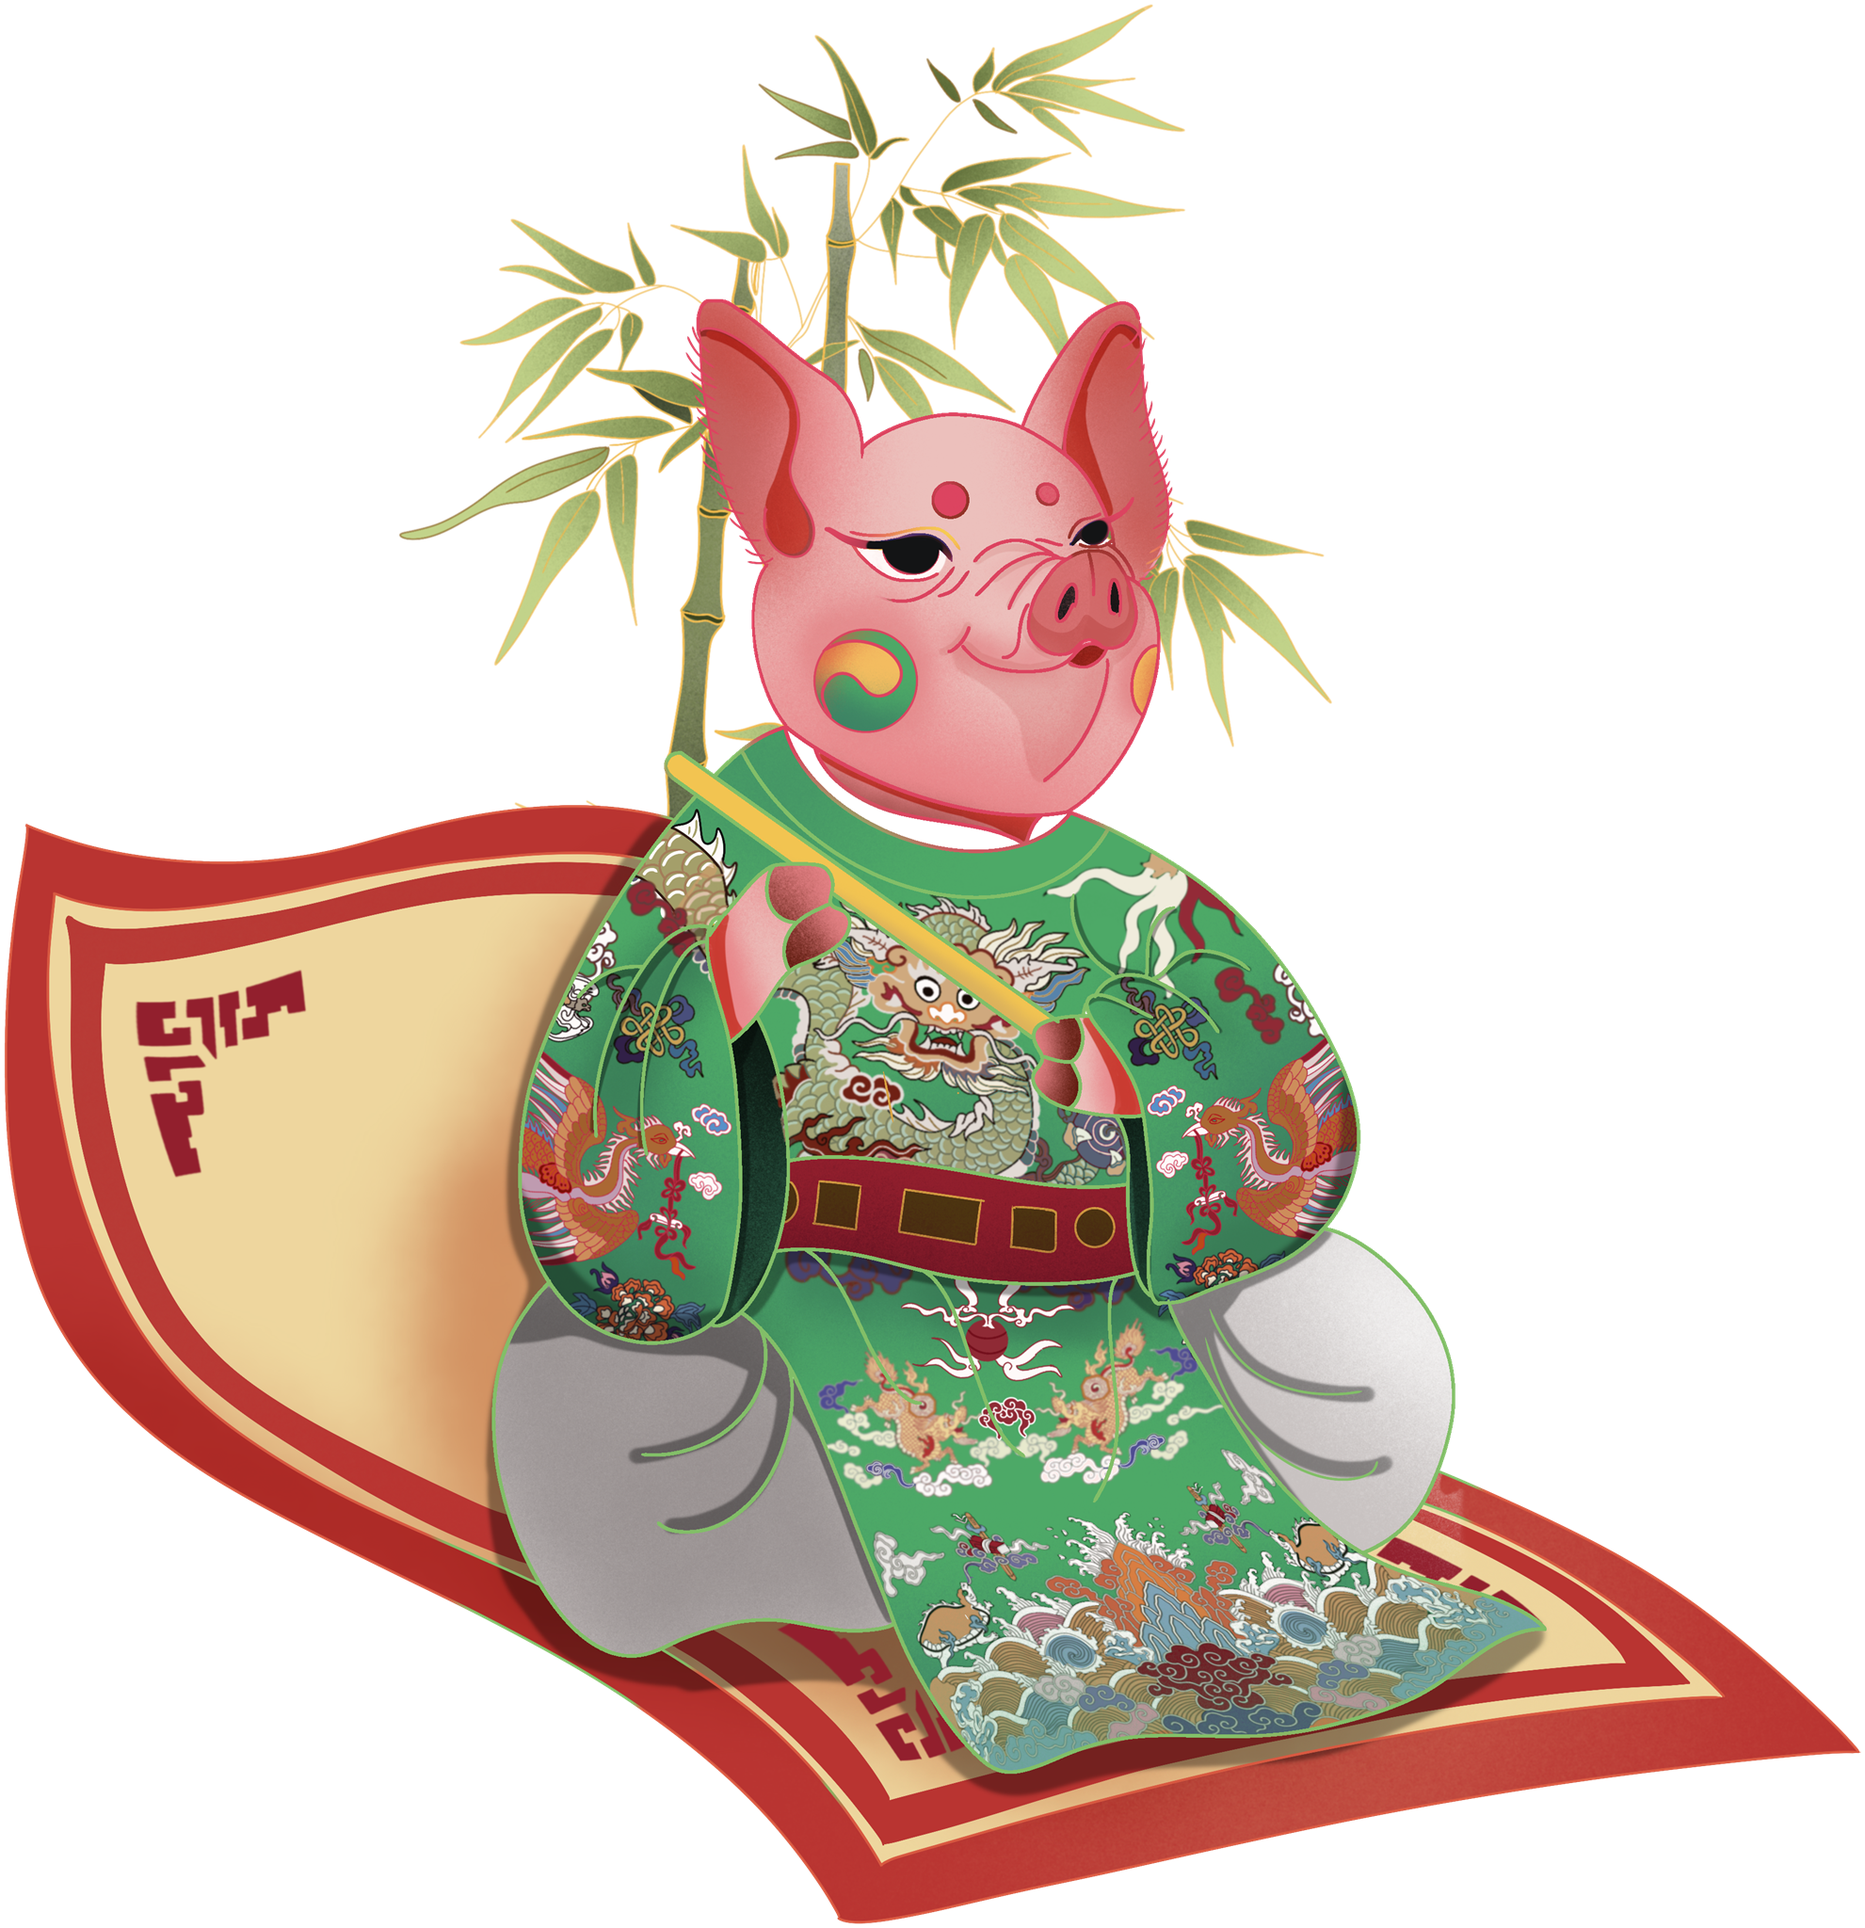
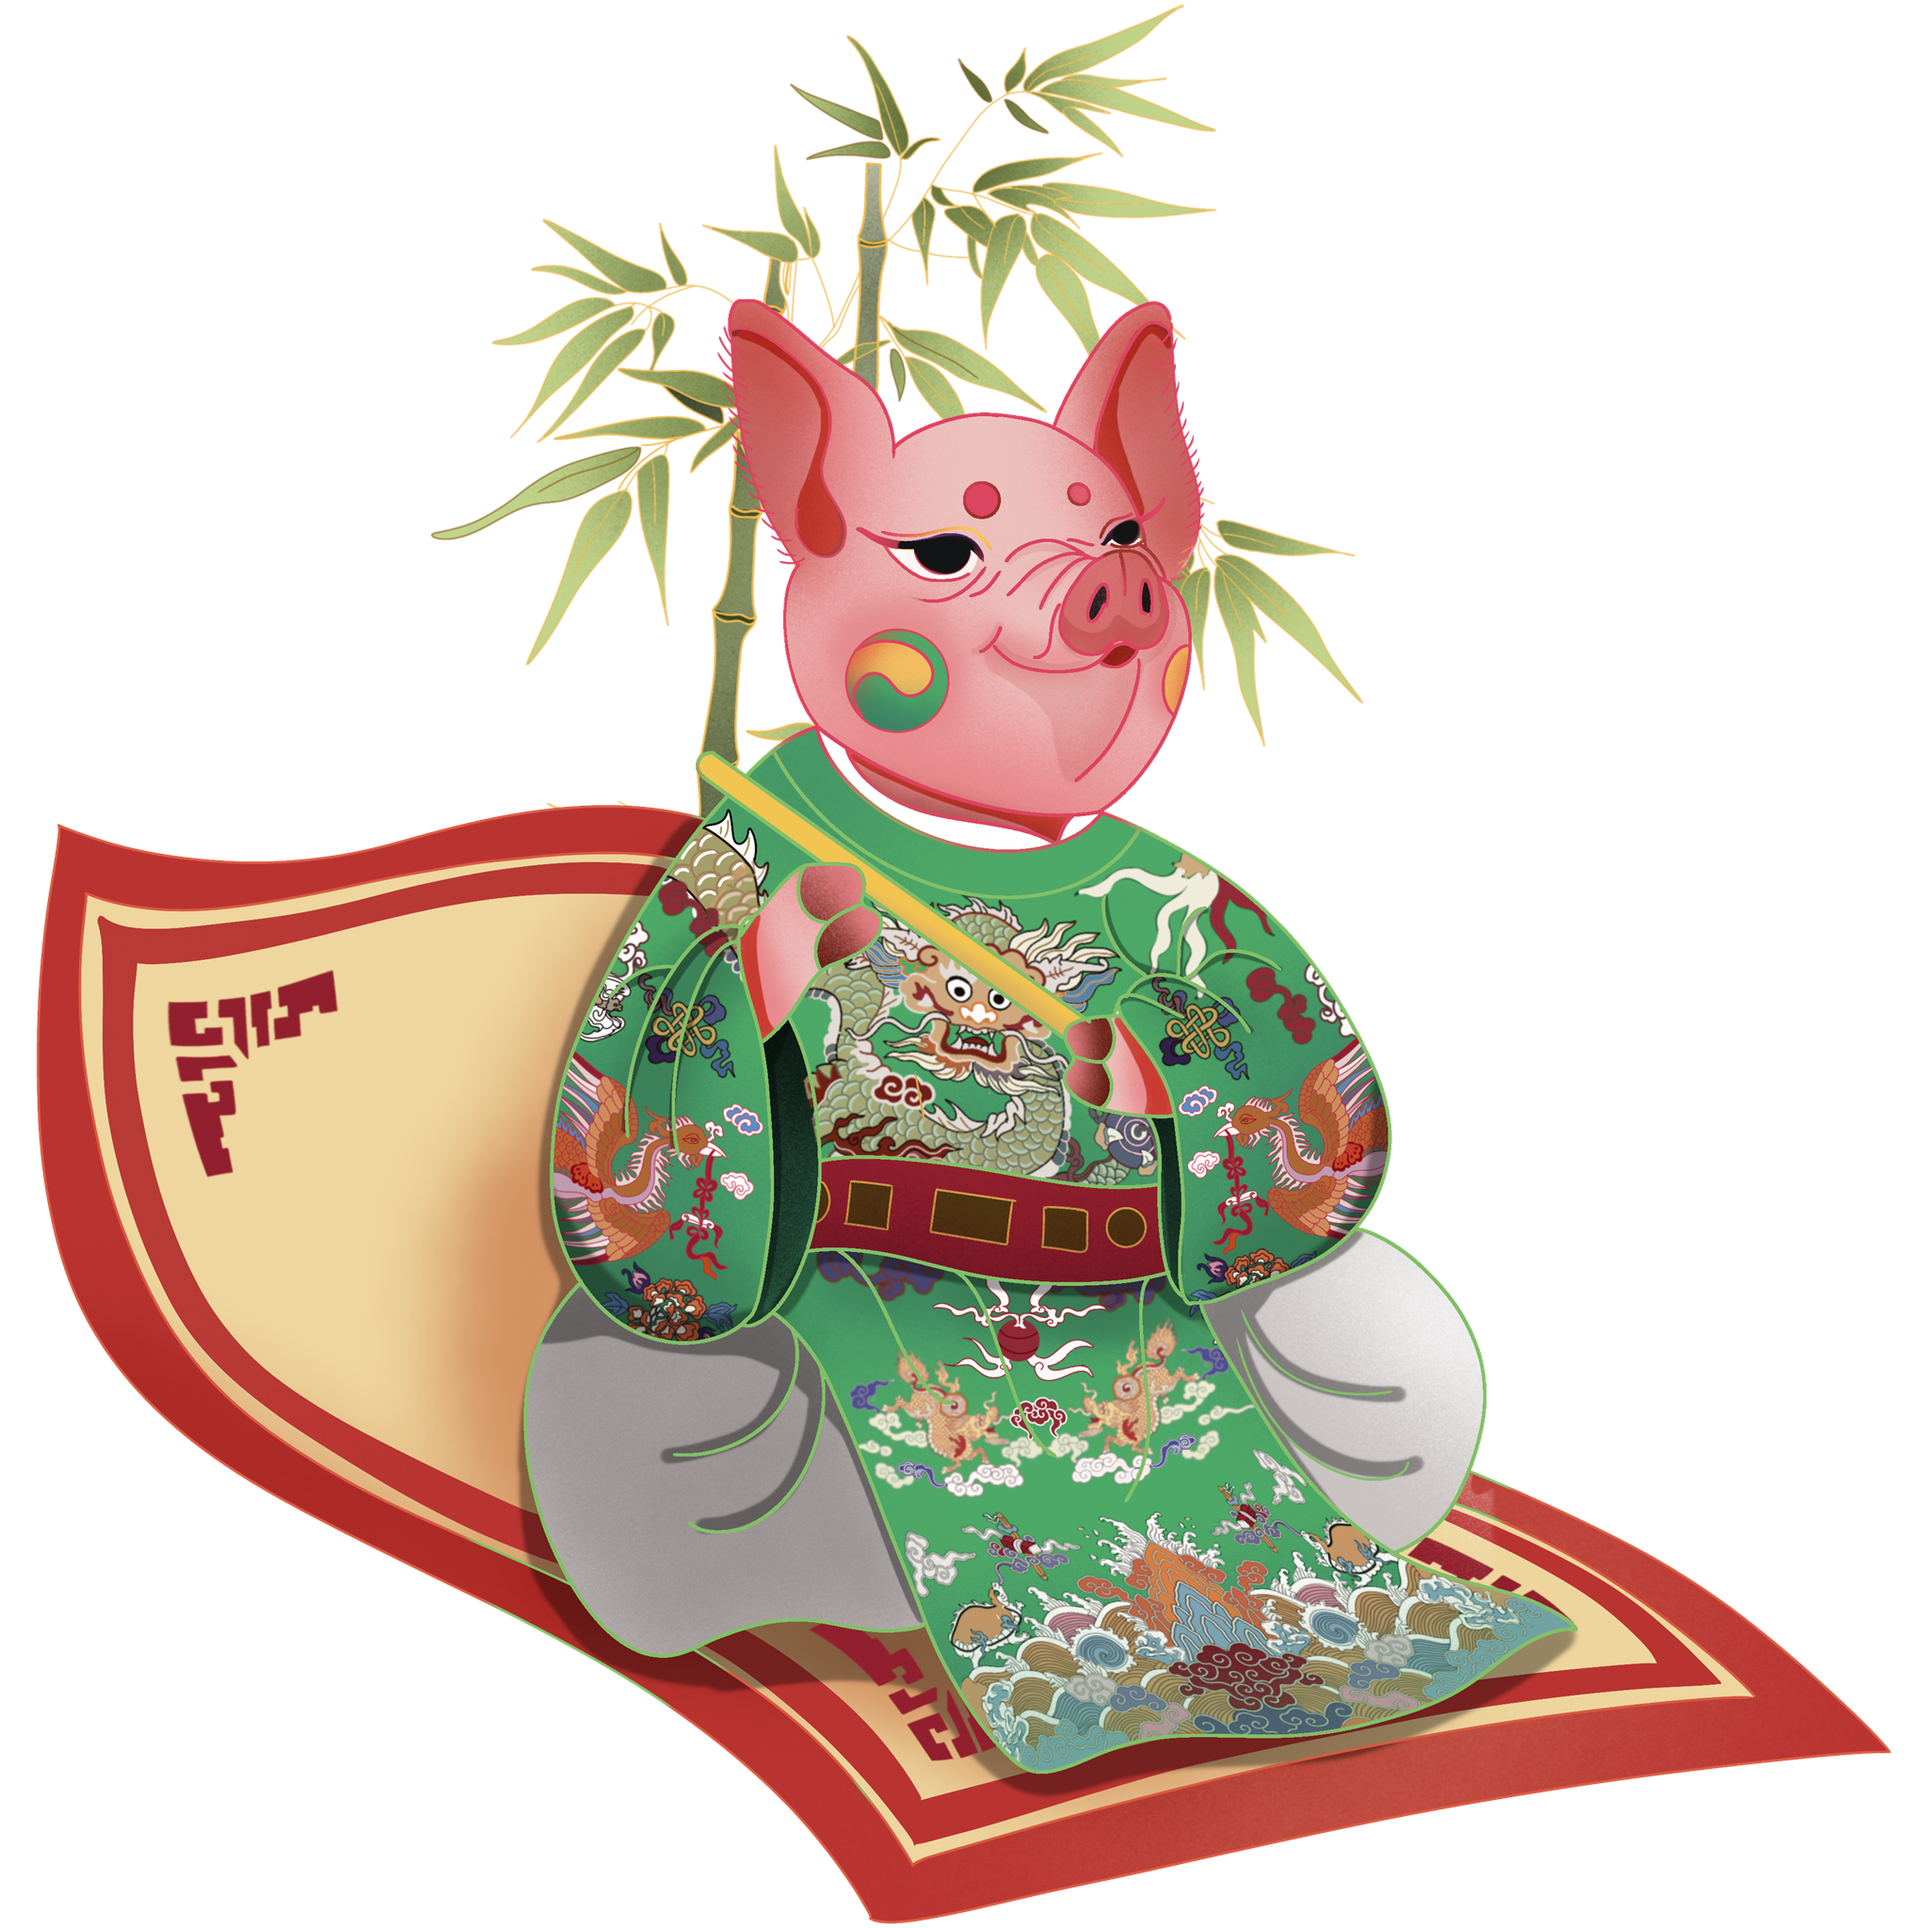
Ảnh nhân vật được nén BC7 thật sự (build 317 MB -> 171 MB)
Ảnh không vuông (vd 1676x2048) có mipmap thì Unity lặng lẽ bỏ nén (các mức mip có cạnh lẻ),
để RGBA32 30-45 MB mỗi ảnh. Đệm 12 ảnh thành 2048x2048 trong suốt (hình ở giữa, sát đáy) —
vừa giữ mipmap cho nét vừa nén BC7 (~5 MB mỗi ảnh). Cập nhật pivot và chiều cao Gà theo phần đệm.

diff --git a/Assets/Zodiac/Editor/ZodiacCharacterDefs.cs b/Assets/Zodiac/Editor/ZodiacCharacterDefs.cs
@@ -5,7 +5,8 @@ using UnityEngine;
 /// <summary>
 /// Định nghĩa 12 con giáp (Tý → Hợi): ảnh, kích thước, chỉ số, nội tại, chiêu thức — và tạo asset ZodiacCharacter + ZodiacRoster.
 /// Ảnh trong Assets/Zodiac/Art/Characters đã được cắt gọn từ ảnh gốc (Assets/Characters/...), lật cho mọi con quay mặt sang phải,
-/// pivot đặt ở bàn chân (kể cả Khỉ — đã cắt lại cho cùng quy cách).
+/// pivot đặt ở bàn chân, đệm thành ảnh vuông 2048×2048 trong suốt (luỹ thừa của 2: vừa có mipmap vừa nén BC7 được —
+/// ảnh không vuông có mipmap thì Unity bỏ nén, mỗi ảnh tốn 30–45 MB thay vì ~5 MB).
 ///
 /// Asset đã có thì giữ nguyên chỉnh sửa tay — chỉ điền lại khi asset được tạo bởi bảng số liệu cũ hơn (DataVersion).
 /// Menu "Tools/Zodiac/Ghi đè chỉ số 12 con giáp" ghi đè lại toàn bộ theo bảng dưới đây.
@@ -44,7 +45,7 @@ public static class ZodiacCharacterDefs
         new Def
         {
             file = "Rat_Ty", ultimate = "Vạn Ảnh Thử", ultimateDesc = "Hoá thành vạn bóng chuột: lướt xa gấp rưỡi, xuyên mọi thứ và xé 2 sát thương mọi quái trên đường.", display = "Chuột", zodiac = "Tý", instrument = "Đàn nguyệt", theme = new Color(0.8f, 0.4f, 0.75f),
-            pivot = new Vector2(0.550f, 0.004f), height = 1.9f, collider = new Vector2(0.7f, 1.35f),
+            pivot = new Vector2(0.5487f, 0.0038f), height = 1.9f, collider = new Vector2(0.7f, 1.35f),
             hp = 4, walk = 5.5f, run = 9.5f, jump = 3.4f,
             passive = "Lanh lẹ", passiveDesc = "Nhỏ con, chạy nhanh, nhảy cao hơn một chút — dễ luồn lách.",
             skill = Hold(Skill(SkillType.Dash, "Độn Ảnh", 1f, 0,
@@ -54,7 +55,7 @@ public static class ZodiacCharacterDefs
         new Def
         {
             file = "Ox_Suu", ultimate = "Đại Hồng Chung", ultimateDesc = "Gõ đại hồng chung: sóng chấn khổng lồ hai bên, 4 sát thương, choáng gần 2.5 giây.", display = "Trâu", zodiac = "Sửu", instrument = "Chiêng", theme = new Color(0.3f, 0.45f, 0.95f),
-            pivot = new Vector2(0.618f, 0.002f), height = 2.3f, collider = new Vector2(0.85f, 1.9f),
+            pivot = new Vector2(0.5966f, 0.0022f), height = 2.3f, collider = new Vector2(0.85f, 1.9f),
             hp = 7, walk = 4.3f, run = 7.2f, jump = 3.2f, knockbackRes = 0.75f,
             passive = "Da trâu", passiveDesc = "7 máu và đứng vững như cột đình — bị đánh gần như không bị đẩy lùi.",
             skill = Hold(Skill(SkillType.Projectile, "Chiêng Chấn Địa", 3f, 2,
@@ -65,7 +66,7 @@ public static class ZodiacCharacterDefs
         new Def
         {
             file = "Tiger_Dan", ultimate = "Mãnh Hổ Hạ Sơn", ultimateDesc = "Vồ một cú dài như hổ xuống núi, 6 sát thương, hất văng mọi thứ.", display = "Hổ", zodiac = "Dần", instrument = "Trống cơm", theme = new Color(0.95f, 0.5f, 0.1f),
-            pivot = new Vector2(0.441f, 0.007f), height = 2.2f, collider = new Vector2(0.8f, 1.75f),
+            pivot = new Vector2(0.4465f, 0.0068f), height = 2.2f, collider = new Vector2(0.8f, 1.75f),
             hp = 5, attack = 2, jump = 3.3f,
             passive = "Mãnh hổ", passiveDesc = "Đòn đánh thường gây 2 sát thương.",
             skill = Hold(Skill(SkillType.Dash, "Hổ Vồ", 2.5f, 3,
@@ -76,7 +77,7 @@ public static class ZodiacCharacterDefs
         new Def
         {
             file = "Cat_Mao", ultimate = "Cửu Mệnh Huyền Âm", ultimateDesc = "Ba sợi âm nhị toả hình quạt, xuyên tất cả, mỗi sợi 4 sát thương.", display = "Mèo", zodiac = "Mão", instrument = "Đàn nhị", theme = new Color(0.9f, 0.25f, 0.35f),
-            pivot = new Vector2(0.443f, 0.016f), height = 2.0f, collider = new Vector2(0.75f, 1.6f),
+            pivot = new Vector2(0.4575f, 0.0157f), height = 2.0f, collider = new Vector2(0.75f, 1.6f),
             hp = 4, walk = 5.2f, run = 9f, jump = 3.6f, lastStand = 1,
             passive = "Chín mạng", passiveDesc = "Mỗi màn được thoát chết một lần: đòn chí mạng chỉ để lại 1 máu.",
             skill = Hold(Skill(SkillType.Projectile, "Tiếng Nhị Xuyên Tâm", 1.6f, 2,
@@ -86,7 +87,7 @@ public static class ZodiacCharacterDefs
         new Def
         {
             file = "Dragon_Thin", ultimate = "Long Thần Hoả", ultimateDesc = "Phun 9 cầu lửa rồng toả rộng, to và bay xa hơn.", display = "Rồng", zodiac = "Thìn", instrument = "Đàn tranh", theme = new Color(0.95f, 0.75f, 0.2f),
-            pivot = new Vector2(0.631f, 0.004f), height = 2.3f, collider = new Vector2(0.85f, 1.8f),
+            pivot = new Vector2(0.6145f, 0.0039f), height = 2.3f, collider = new Vector2(0.85f, 1.8f),
             hp = 6, jump = 4f,
             passive = "Thăng long", passiveDesc = "Nhảy cao nhất trong 12 con giáp (4 ô) và có 6 máu.",
             skill = Hold(Skill(SkillType.Projectile, "Long Hoả", 2.2f, 1,
@@ -97,7 +98,7 @@ public static class ZodiacCharacterDefs
         new Def
         {
             file = "Snake_Ty", ultimate = "Vạn Xà Ẩn Hình", ultimateDesc = "Ẩn thân gần 5.5 giây; đòn đầu tiên khi đang ẩn gây sát thương ×5.", display = "Rắn", zodiac = "Tỵ", instrument = "Áo choàng bóng đêm", theme = new Color(0.2f, 0.65f, 0.45f),
-            pivot = new Vector2(0.613f, 0.003f), height = 2.05f, collider = new Vector2(0.9f, 1.35f),
+            pivot = new Vector2(0.5747f, 0.0029f), height = 2.05f, collider = new Vector2(0.9f, 1.35f),
             hp = 4, walk = 4.8f, poison = 2,
             passive = "Nọc độc", passiveDesc = "Đòn đánh thường tẩm độc, gây thêm 2 sát thương theo thời gian.",
             skill = Hold(Skill(SkillType.Stealth, "Xà Ảnh", 6f, 0,
@@ -107,7 +108,7 @@ public static class ZodiacCharacterDefs
         new Def
         {
             file = "Horse_Ngo", ultimate = "Thiên Mã Hành Không", ultimateDesc = "Phi một mạch thật xa, húc văng mọi quái với 4 sát thương.", display = "Ngựa", zodiac = "Ngọ", instrument = "Đàn tam", theme = new Color(0.3f, 0.75f, 0.8f),
-            pivot = new Vector2(0.640f, 0.004f), height = 2.3f, collider = new Vector2(0.75f, 1.9f),
+            pivot = new Vector2(0.5976f, 0.0045f), height = 2.3f, collider = new Vector2(0.75f, 1.9f),
             hp = 5, walk = 5.5f, run = 11f, jump = 3.3f,
             passive = "Thiên lý mã", passiveDesc = "Chạy nhanh nhất (11 ô/giây khi giữ Shift) — nhảy xa qua vực rộng.",
             skill = Hold(Skill(SkillType.Dash, "Vó Ngựa Phi", 2.5f, 2,
@@ -117,7 +118,7 @@ public static class ZodiacCharacterDefs
         new Def
         {
             file = "Goat_Mui", ultimate = "Xuân Hồi Đại Địa", ultimateDesc = "Khúc tỳ bà ngắn hồi đầy máu.", display = "Dê", zodiac = "Mùi", instrument = "Tỳ bà", theme = new Color(0.45f, 0.8f, 0.45f),
-            pivot = new Vector2(0.560f, 0.003f), height = 2.2f, collider = new Vector2(0.75f, 1.7f),
+            pivot = new Vector2(0.5424f, 0.0026f), height = 2.2f, collider = new Vector2(0.75f, 1.7f),
             hp = 5, jump = 3.4f, coinsPerHeal = 6,
             passive = "Hiền hoà", passiveDesc = "Cứ nhặt 6 đồng xu lại hồi 1 máu.",
             skill = Hold(Skill(SkillType.Heal, "Khúc Hồi Xuân", 8f, 0,
@@ -127,7 +128,7 @@ public static class ZodiacCharacterDefs
         new Def
         {
             file = "Monkey_Than", ultimate = "Tề Thiên Đại Thánh", ultimateDesc = "Ném ba chũm chọe khổng lồ bay ra rồi quay về, chém mọi thứ trên đường.", display = "Khỉ", zodiac = "Thân", instrument = "Chũm chọe", theme = new Color(0.95f, 0.7f, 0.25f),
-            pivot = new Vector2(0.365f, 0.003f), height = 2.46f, collider = new Vector2(0.8f, 1.9f), colliderOffsetX = 0.15f,
+            pivot = new Vector2(0.3949f, 0.0030f), height = 2.46f, collider = new Vector2(0.8f, 1.9f), colliderOffsetX = 0.15f,
             hp = 5, airJumps = 1,
             passive = "Tề Thiên", passiveDesc = "Nhảy thêm 1 lần trên không. Đạp đầu quái thì được nhảy đôi lại.",
             skill = Hold(Skill(SkillType.Projectile, "Chũm Chọe Bay", 1.8f, 1,
@@ -137,7 +138,7 @@ public static class ZodiacCharacterDefs
         new Def
         {
             file = "Rooster_Dau", ultimate = "Kim Kê Báo Hiểu", ultimateDesc = "Tiếng kèn rền vang: sóng âm cực rộng, choáng 3.5 giây, xoá sạch đạn địch.", display = "Gà", zodiac = "Dậu", instrument = "Kèn", theme = new Color(0.9f, 0.3f, 0.2f),
-            pivot = new Vector2(0.432f, 0.057f), height = 1.95f, collider = new Vector2(0.8f, 1.45f),
+            pivot = new Vector2(0.4323f, 0.0492f), height = 2.274f, collider = new Vector2(0.8f, 1.45f),
             hp = 5, glide = 2.2f,
             passive = "Cánh phượng", passiveDesc = "Giữ Space khi đang rơi để xoè cánh lượn chậm — bay qua vực rộng.",
             skill = Hold(Skill(SkillType.Burst, "Kèn Hiệu Bình Minh", 5f, 1,
@@ -147,7 +148,7 @@ public static class ZodiacCharacterDefs
         new Def
         {
             file = "Dog_Tuat", ultimate = "Thiên Cẩu Hống", ultimateDesc = "Tiếng hống trời giáng: sóng âm lớn phía trước, 4 sát thương, hất văng thật xa.", display = "Chó", zodiac = "Tuất", instrument = "Đàn đáy", theme = new Color(0.85f, 0.6f, 0.25f),
-            pivot = new Vector2(0.327f, 0.005f), height = 2.1f, collider = new Vector2(0.8f, 1.8f),
+            pivot = new Vector2(0.3471f, 0.0049f), height = 2.1f, collider = new Vector2(0.8f, 1.8f),
             hp = 5, walk = 5.2f, run = 9f, jump = 3.3f, magnet = 4.5f,
             passive = "Mũi thính", passiveDesc = "Đồng xu trong bán kính 4.5 ô tự bay về phía Chó.",
             skill = Hold(Skill(SkillType.Burst, "Khuyển Hống", 2f, 2,
@@ -157,7 +158,7 @@ public static class ZodiacCharacterDefs
         new Def
         {
             file = "Pig_Hoi", ultimate = "Bát Giới Trấn Sơn", ultimateDesc = "Dậm đất rung chuyển cả núi: sóng chấn cực rộng, 6 sát thương.", display = "Heo", zodiac = "Hợi", instrument = "Sáo trúc", theme = new Color(0.95f, 0.5f, 0.6f),
-            pivot = new Vector2(0.519f, 0.018f), height = 1.95f, collider = new Vector2(1f, 1.45f),
+            pivot = new Vector2(0.5186f, 0.0182f), height = 1.95f, collider = new Vector2(1f, 1.45f),
             hp = 6, walk = 4.5f, run = 7.5f, stompMult = 2,
             passive = "Phúc hậu", passiveDesc = "6 máu; đạp đầu quái gây gấp đôi sát thương.",
             skill = Hold(Skill(SkillType.GroundPound, "Heo Dậm Đất", 3f, 3,
